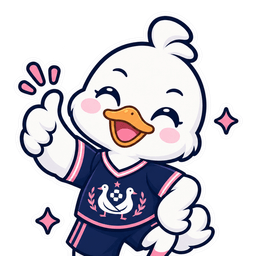
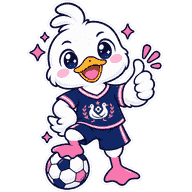
feat(lounge): 더덕티콘 7종 — 표정별로 다시 배치
새로 받은 6장 + 기존 1장을 표정이 겹치지 않게 배치했다.
저도요 · 동의 · 빵터짐 · 골! · 불타오르네 · 슬퍼요 · 힘들어요.
골!·힘들어요는 새로 만든 자리고, 손 흔드는 그림이 둘이라 더 또렷한 쪽만 남겼다
— 작게 줄이면 둘이 구분되지 않는다.

**잘라내지 않는다.** 머리만 크게 오려내니 손·공·땀방울처럼 표정을 거드는 것들이
잘려 나갔다. 투명 여백만 걷어내고 정사각형에 통째로 맞춰 넣는다.

192px 팔레트 PNG. 화면 최대 64px 이라 3배 화면에도 충분하고, 색이 평평한
그림이라 90KB → 6KB 로 줄면서 눈에 띄는 차이가 없다. 7장 합쳐 40KB.

그림이 생겼으니 피커 40px, 목록 아이콘 38px 로 키웠다. 32px 로는 표정이 안 보인다.

Claude-Session: https://claude.ai/code/session_01AMcmD84uZ8K5mtj42T5CEi

diff --git a/app/lounge/emoticons.ts b/app/lounge/emoticons.ts
@@ -23,11 +23,14 @@ export interface Emoticon {
 export const EMOTICONS: Emoticon[] = [
   { id: "me-too", label: "저도요", emoji: "🙋", art: true },
   { id: "agree", label: "동의", emoji: "👍", art: true },
-  { id: "laugh", label: "빵터짐", emoji: "😂" },
-  { id: "cry", label: "슬퍼요", emoji: "😭" },
+  { id: "laugh", label: "빵터짐", emoji: "😂", art: true },
+  { id: "goal", label: "골!", emoji: "⚽", art: true },
+  { id: "fire", label: "불타오르네", emoji: "🔥", art: true },
+  { id: "cry", label: "슬퍼요", emoji: "😭", art: true },
+  { id: "tired", label: "힘들어요", emoji: "😓", art: true },
+  // 아직 그림이 없는 것들. emoji 로 그린다.
   { id: "sorry", label: "죄송", emoji: "🙏" },
   { id: "thinking", label: "음…", emoji: "🤔" },
-  { id: "fire", label: "불타오르네", emoji: "🔥" },
   { id: "duck", label: "꽥", emoji: "🐥" },
 ];
 

diff --git a/app/lounge/EmoticonPicker.tsx b/app/lounge/EmoticonPicker.tsx
@@ -26,13 +26,13 @@ export default function EmoticonPicker({
             onClick={() => onPick(e.id)}
             aria-label={e.label}
             aria-pressed={selected === e.id}
-            className={`flex flex-col items-center gap-1 rounded-xl py-2.5 transition-colors ${
+            className={`flex flex-col items-center gap-1 rounded-xl py-2 transition-colors ${
               selected === e.id
                 ? "bg-[#FF8FA3]/12 dark:bg-[#FFB6C1]/12"
                 : "active:bg-gray-200/70 dark:active:bg-white/10"
             }`}
           >
-            <Emoticon id={e.id} size={32} />
+            <Emoticon id={e.id} size={40} />
             <span className="text-[9px] font-black text-gray-400 dark:text-white/30">
               {e.label}
             </span>

diff --git a/app/lounge/LoungeClient.tsx b/app/lounge/LoungeClient.tsx
@@ -163,7 +163,7 @@ export default function LoungeClient({
                 >
                   {post.icon && (
                     <span className="mt-0.5 shrink-0">
-                      <Emoticon id={post.icon} size={34} />
+                      <Emoticon id={post.icon} size={38} />
                     </span>
                   )}
                   <div className="min-w-0 flex-1">

diff --git a/HANDOFF-lounge.md b/HANDOFF-lounge.md
@@ -358,29 +358,37 @@ app/api/lounge/[id]/comments/[cid]/route.ts    DELETE 댓글
 
 | id | 라벨 | 지금 그리는 것 |
 | --- | --- | --- |
-| `me-too` | 저도요 | 🖼 그림 (`art: true`) |
-| `agree` | 동의 | 🖼 그림 (`art: true`) |
-| `laugh` | 빵터짐 | 😂 |
-| `cry` | 슬퍼요 | 😭 |
+| `me-too` | 저도요 | 🖼 손 들고 활짝 |
+| `agree` | 동의 | 🖼 눈 뜨고 엄지척 |
+| `laugh` | 빵터짐 | 🖼 눈 감고 웃으며 엄지척 |
+| `goal` | 골! | 🖼 만세 환호 |
+| `fire` | 불타오르네 | 🖼 눈썹 세우고 주먹 |
+| `cry` | 슬퍼요 | 🖼 눈물 |
+| `tired` | 힘들어요 | 🖼 땀 + 혀 |
 | `sorry` | 죄송 | 🙏 |
 | `thinking` | 음… | 🤔 |
-| `fire` | 불타오르네 | 🔥 |
 | `duck` | 꽥 | 🐥 |
+
+그림 7장 합쳐 **40KB**다. 표정이 겹치면 작게 줄였을 때 구분이 안 되므로,
+손 흔드는 그림이 둘이었을 때 더 또렷한 쪽만 남기고 하나는 뺐다.
 
 ### 그림 넣는 법
 
 `public/emoticons/me-too.png` 처럼 **id 와 같은 이름**으로 넣고, `emoticons.ts` 의
 그 줄에 **`art: true` 를 켠다**. 파일만 넣으면 안 쓰인다(안 켜져 있으면 emoji 를 그린다).
 
-**얼굴 클로즈업으로 자를 것.** 화면에서 32~64px 로 그려지는데 전신 그림을 넣으면
-얼굴이 전체의 1/5도 안 돼 표정이 사라진다(그래서 처음 받은 전신 스티커를 머리 위주로
-잘라 넣었다). 배경 장식(반짝이·공)도 그 크기에서는 노이즈가 된다.
+**잘라내지 말고 정사각형에 통째로 맞춰 넣는다.** 머리만 크게 오려내면 손·공·땀방울처럼
+표정을 거드는 것들이 잘려 나간다. 투명 여백만 걷어내고(알파 bbox) `fit: contain` 으로
+정사각형에 넣으면 아무것도 안 잘린다.
 
-정사각형 투명 PNG **256px**, 30KB 안쪽. 1254px 원본을 그대로 넣으면 60px 아이콘에
-1MB 를 받게 된다.
+**192px 팔레트 PNG.** 화면 최대 64px 이라 3배 화면에도 192px 면 충분하고, 색이 평평한
+그림이라 팔레트(96색)로 넣으면 90KB → 6KB 로 줄면서 눈에 띄는 차이가 없다.
+1254px 원본을 그대로 넣으면 38px 아이콘 하나에 1MB 를 받게 된다.
 
-그리고 **표정을 확실히 다르게** 뽑아야 한다. 웃는 얼굴만 여러 장이면 "슬퍼요"를
-만들 수가 없고, 목록에서 서로 구분도 안 된다.
+**표정을 확실히 다르게** 뽑아야 한다. 웃는 얼굴만 여러 장이면 "슬퍼요"를 만들 수가
+없고, 작게 줄였을 때 서로 구분도 안 된다.
+
+원본은 `emoticon/`(repo 루트)에 두고, 위 규칙대로 변환해 `public/emoticons/` 에 넣는다.
 
 ### 미리 받아두기
 
